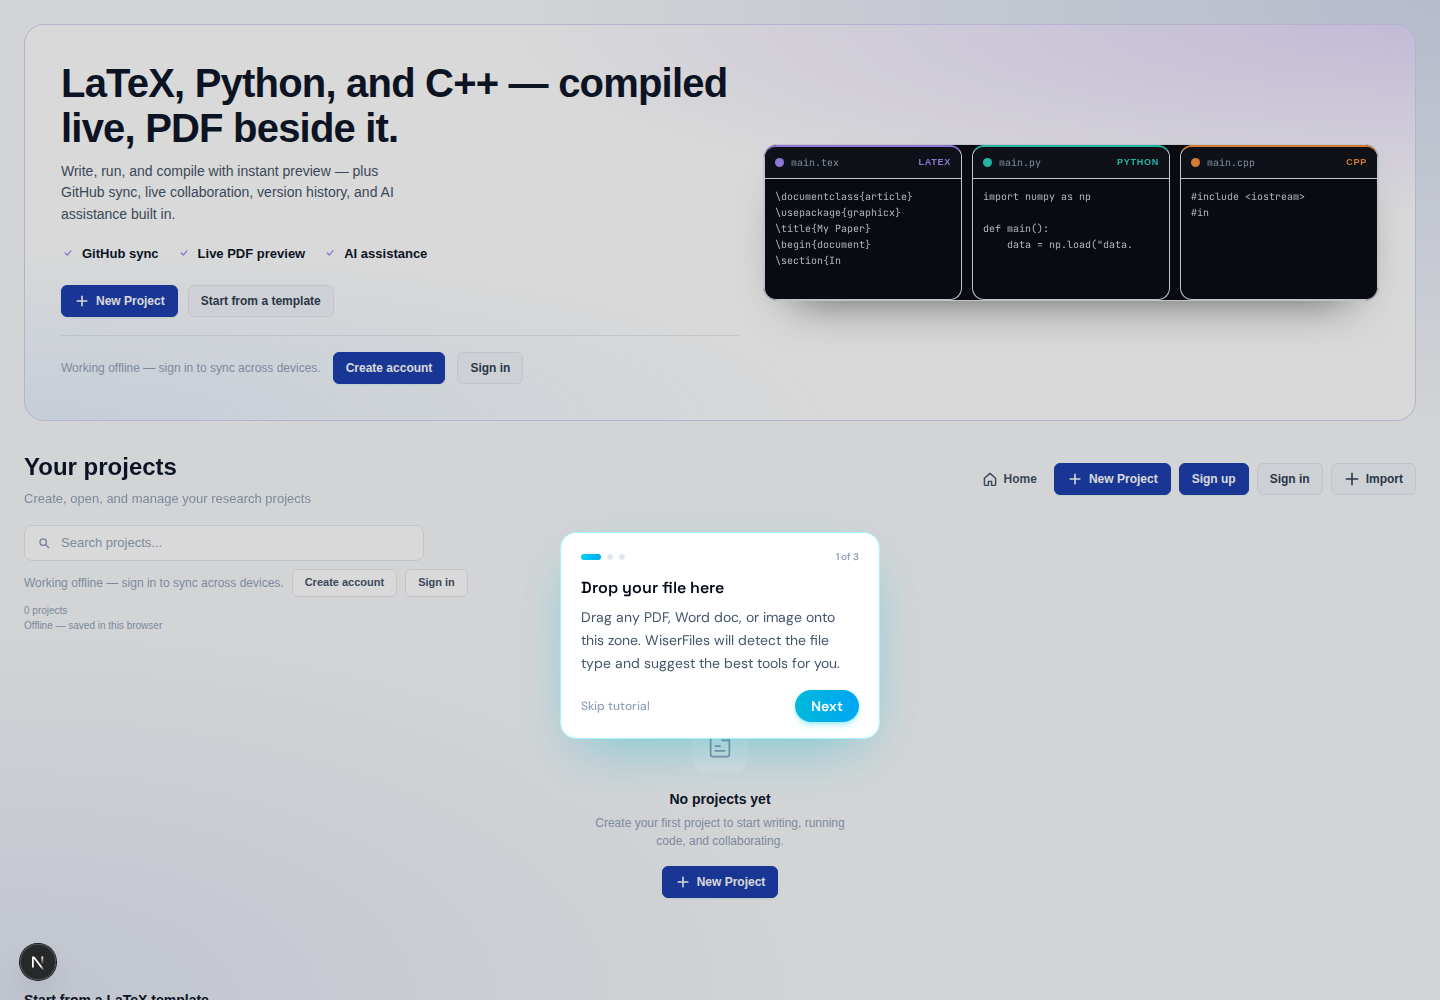
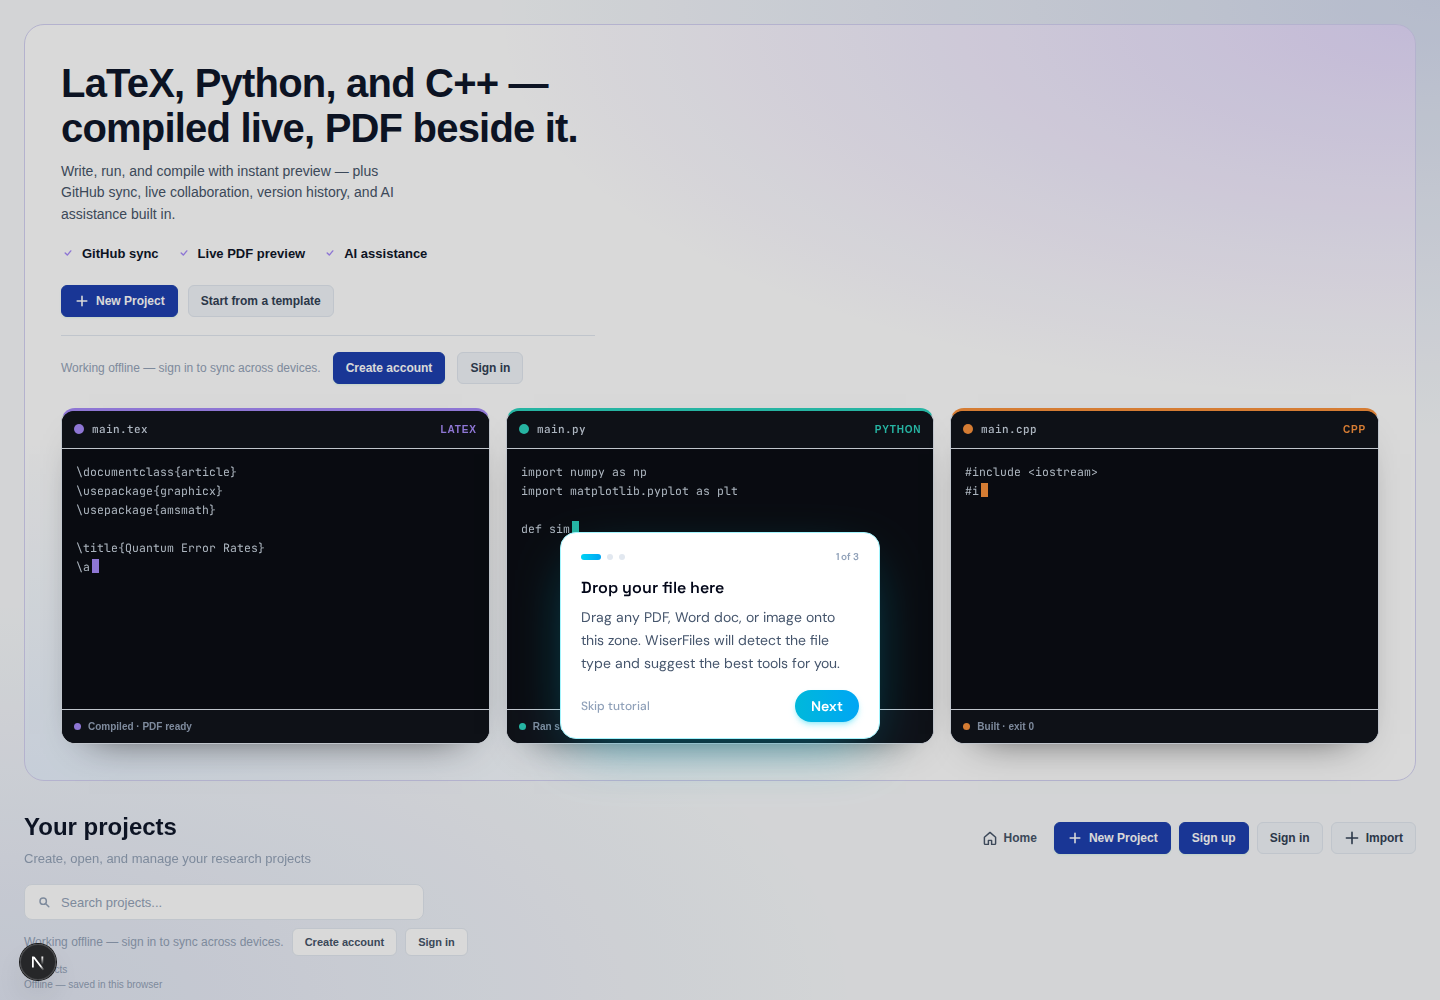
fix(studio): three separate big hero cards with live typing (#98)
The three language cards were rendered inside a single wrapped container, so
they read as one card with three text columns. They are now three distinct,
full-width cards (LaTeX / Python / C++) with their own border, title bar, taller
code area, and a status footer ('Compiled · PDF ready' / 'Ran successfully' /
'Built · exit 0'). On mobile they scroll horizontally with snap; on desktop they
sit in a three-column row. Each types its own code and loops.

diff --git a/app/components/studio-hero-cards.tsx b/app/components/studio-hero-cards.tsx
@@ -2,12 +2,13 @@
 
 import { useEffect, useRef, useState } from "react";
 
-// Three live-typing mini editor cards (LaTeX / Python / C++) for the studio
-// hero. Each types its code character-by-character, holds, then loops.
+// Three large, separate live-typing editor cards (LaTeX / Python / C++) for the
+// studio hero. Each card types its own code, holds, then loops.
 type CardSpec = {
   mode: string;
   file: string;
   accent: string;
+  status: string;
   code: string;
 };
 
@@ -16,37 +17,65 @@ const CARDS: CardSpec[] = [
     mode: "latex",
     file: "main.tex",
     accent: "#a78bfa",
+    status: "Compiled · PDF ready",
     code: `\\documentclass{article}
 \\usepackage{graphicx}
-\\title{My Paper}
+\\usepackage{amsmath}
+
+\\title{Quantum Error Rates}
+\\author{J. Dlamini}
+
 \\begin{document}
+\\maketitle
+
 \\section{Introduction}
-We study the effect of...
+We study the effect of
+decoherence on the error
+rate of surface codes.
+
+\\begin{equation}
+  E = 1 - e^{-\\gamma t}
+\\end{equation}
 \\end{document}`,
   },
   {
     mode: "python",
     file: "main.py",
     accent: "#2dd4bf",
+    status: "Ran successfully",
     code: `import numpy as np
+import matplotlib.pyplot as plt
 
-def main():
-    data = np.load("data.npy")
-    print(data.shape)
+def simulate(n=1000):
+    data = np.random.randn(n)
+    return data
 
 if __name__ == "__main__":
-    main()`,
+    data = simulate()
+    print("mean:", data.mean())
+    print("std :", data.std())
+    plt.hist(data, bins=40)
+    plt.savefig("hist.png")`,
   },
   {
     mode: "cpp",
     file: "main.cpp",
     accent: "#fb923c",
+    status: "Built · exit 0",
     code: `#include <iostream>
 #include <vector>
+#include <numeric>
 
 int main() {
-  std::vector<int> v{1, 2, 3};
-  std::cout << v.size() << "\\n";
+  std::vector<int> v(100);
+  std::iota(v.begin(), v.end(), 1);
+
+  long sum = std::accumulate(
+      v.begin(), v.end(), 0L);
+
+  std::cout << "sum: " << sum << "\\n";
+  std::cout << "mean: "
+            << sum / v.size() << "\\n";
   return 0;
 }`,
   },
@@ -83,9 +112,9 @@ function TypeCard({ spec, delay }: { spec: CardSpec; delay: number }) {
           hold = setTimeout(() => {
             setCount(0);
             setCycle((c) => c + 1);
-          }, 3200);
+          }, 3600);
         }
-      }, 26);
+      }, 18);
     }, delay);
     return () => {
       clearTimeout(start);
@@ -98,10 +127,10 @@ function TypeCard({ spec, delay }: { spec: CardSpec; delay: number }) {
   return (
     <div
       className="studio-hero-card"
-      style={{ animationDelay: `${delay + 200}ms`, borderTop: `2px solid ${spec.accent}` }}
+      style={{ animationDelay: `${delay + 150}ms`, borderTop: `3px solid ${spec.accent}` }}
     >
       <div className="studio-hero-card-bar">
-        <span style={{ width: 9, height: 9, borderRadius: "50%", background: spec.accent }} />
+        <span style={{ width: 10, height: 10, borderRadius: "50%", background: spec.accent }} />
         <span className="studio-hero-card-file">{spec.file}</span>
         <span className="studio-hero-card-mode" style={{ color: spec.accent }}>
           {spec.mode}
@@ -111,6 +140,10 @@ function TypeCard({ spec, delay }: { spec: CardSpec; delay: number }) {
         {spec.code.slice(0, count)}
         <span className="studio-hero-cursor" style={{ background: spec.accent }} />
       </pre>
+      <div className="studio-hero-card-foot">
+        <span className="studio-hero-card-foot-dot" style={{ background: spec.accent }} />
+        <span>{spec.status}</span>
+      </div>
     </div>
   );
 }
@@ -119,7 +152,7 @@ export default function StudioHeroCards() {
   return (
     <div className="studio-hero-cards">
       {CARDS.map((spec, i) => (
-        <TypeCard key={spec.mode} spec={spec} delay={i * 900} />
+        <TypeCard key={spec.mode} spec={spec} delay={i * 700} />
       ))}
     </div>
   );

diff --git a/app/globals.css b/app/globals.css
@@ -1291,10 +1291,9 @@ body[data-studio-editor="true"] footer {
 
 /* ── Studio hero (projects screen) ───── */
 .studio-hero {
-  display: grid;
-  grid-template-columns: 1fr;
+  display: flex;
+  flex-direction: column;
   gap: 24px;
-  align-items: center;
   border-radius: 20px;
   border: 1px solid color-mix(in srgb, #a78bfa 24%, var(--border-color, #334155));
   background:
@@ -1305,10 +1304,11 @@ body[data-studio-editor="true"] footer {
   margin-bottom: 28px;
 }
 @media (min-width: 900px) {
-  .studio-hero {
-    grid-template-columns: minmax(0, 1.1fr) minmax(0, 1fr);
-    padding: 36px;
-  }
+  .studio-hero { padding: 36px; }
+}
+
+.studio-hero-copy {
+  max-width: 60ch;
 }
 
 .studio-hero-title {
@@ -1382,61 +1382,93 @@ body[data-studio-editor="true"] footer {
 .studio-hero-cards {
   display: grid;
   grid-template-columns: 1fr;
-  gap: 10px;
+  gap: 16px;
 }
-@media (min-width: 640px) {
+@media (min-width: 768px) {
   .studio-hero-cards { grid-template-columns: repeat(3, minmax(0, 1fr)); }
+}
+@media (max-width: 767px) {
+  .studio-hero-cards {
+    display: flex;
+    overflow-x: auto;
+    scroll-snap-type: x mandatory;
+    padding-bottom: 6px;
+    -webkit-overflow-scrolling: touch;
+  }
+  .studio-hero-card {
+    flex: 0 0 84%;
+    scroll-snap-align: start;
+  }
 }
 
 .studio-hero-card {
-  border-radius: 12px;
+  border-radius: 14px;
   border: 1px solid var(--border-color, #334155);
   background: #0b0e14;
   overflow: hidden;
-  animation: studio-hero-card-enter 0.5s cubic-bezier(0.22, 1, 0.36, 1) both;
+  box-shadow: 0 18px 40px -28px rgba(0, 0, 0, 0.8);
+  animation: studio-hero-card-enter 0.55s cubic-bezier(0.22, 1, 0.36, 1) both;
 }
 @keyframes studio-hero-card-enter {
-  from { opacity: 0; transform: translateY(14px); }
+  from { opacity: 0; transform: translateY(18px); }
   to { opacity: 1; transform: translateY(0); }
 }
 
 .studio-hero-card-bar {
   display: flex;
   align-items: center;
-  gap: 7px;
-  padding: 8px 10px;
+  gap: 8px;
+  padding: 10px 12px;
   border-bottom: 1px solid var(--border-color, #334155);
   background: #11141c;
 }
 .studio-hero-card-file {
   font-family: var(--font-mono);
-  font-size: 10px;
-  color: #94a3b8;
+  font-size: 11px;
+  color: #cbd5e1;
+  font-weight: 500;
 }
 .studio-hero-card-mode {
   margin-left: auto;
-  font-size: 9px;
+  font-size: 10px;
   font-weight: 700;
   text-transform: uppercase;
   letter-spacing: 0.08em;
 }
 .studio-hero-card-code {
   margin: 0;
-  padding: 10px;
+  padding: 14px;
   font-family: var(--font-mono);
-  font-size: 10px;
-  line-height: 1.6;
+  font-size: 11.5px;
+  line-height: 1.65;
   color: #cbd5e1;
-  min-height: 120px;
+  min-height: 260px;
   white-space: pre-wrap;
   word-break: break-word;
 }
+.studio-hero-card-foot {
+  display: flex;
+  align-items: center;
+  gap: 7px;
+  padding: 9px 12px;
+  border-top: 1px solid var(--border-color, #334155);
+  background: #11141c;
+  font-size: 10px;
+  font-weight: 600;
+  color: #94a3b8;
+}
+.studio-hero-card-foot-dot {
+  width: 7px;
+  height: 7px;
+  border-radius: 50%;
+  flex-shrink: 0;
+}
 .studio-hero-cursor {
   display: inline-block;
-  width: 6px;
-  height: 12px;
+  width: 7px;
+  height: 14px;
   margin-left: 2px;
-  vertical-align: -1px;
+  vertical-align: -2px;
   animation: studio-cursor-blink 1s steps(2) infinite;
 }
 @keyframes studio-cursor-blink {

diff --git a/app/research-studio/page.tsx b/app/research-studio/page.tsx
@@ -5085,9 +5085,7 @@ export default function ResearchStudioPage() {
               </div>
             ) : null}
           </div>
-          <div className="studio-hero-visual">
-            <StudioHeroCards />
-          </div>
+          <StudioHeroCards />
         </section>
 
         {/* Dashboard header */}
